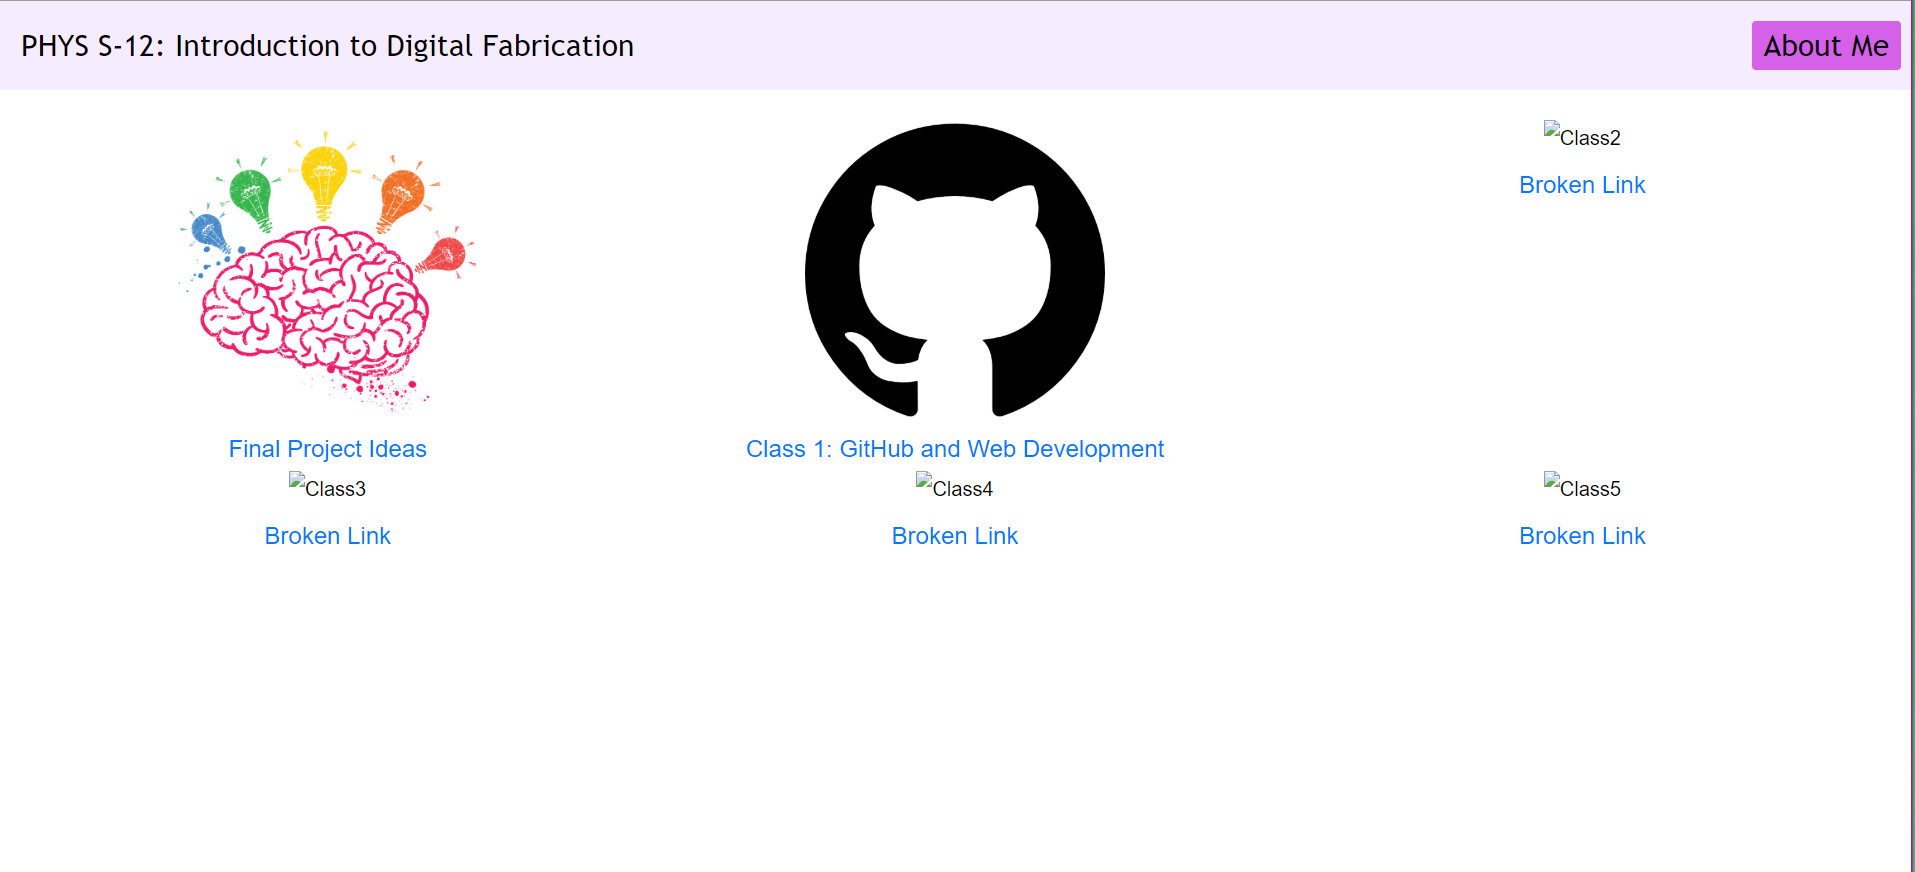
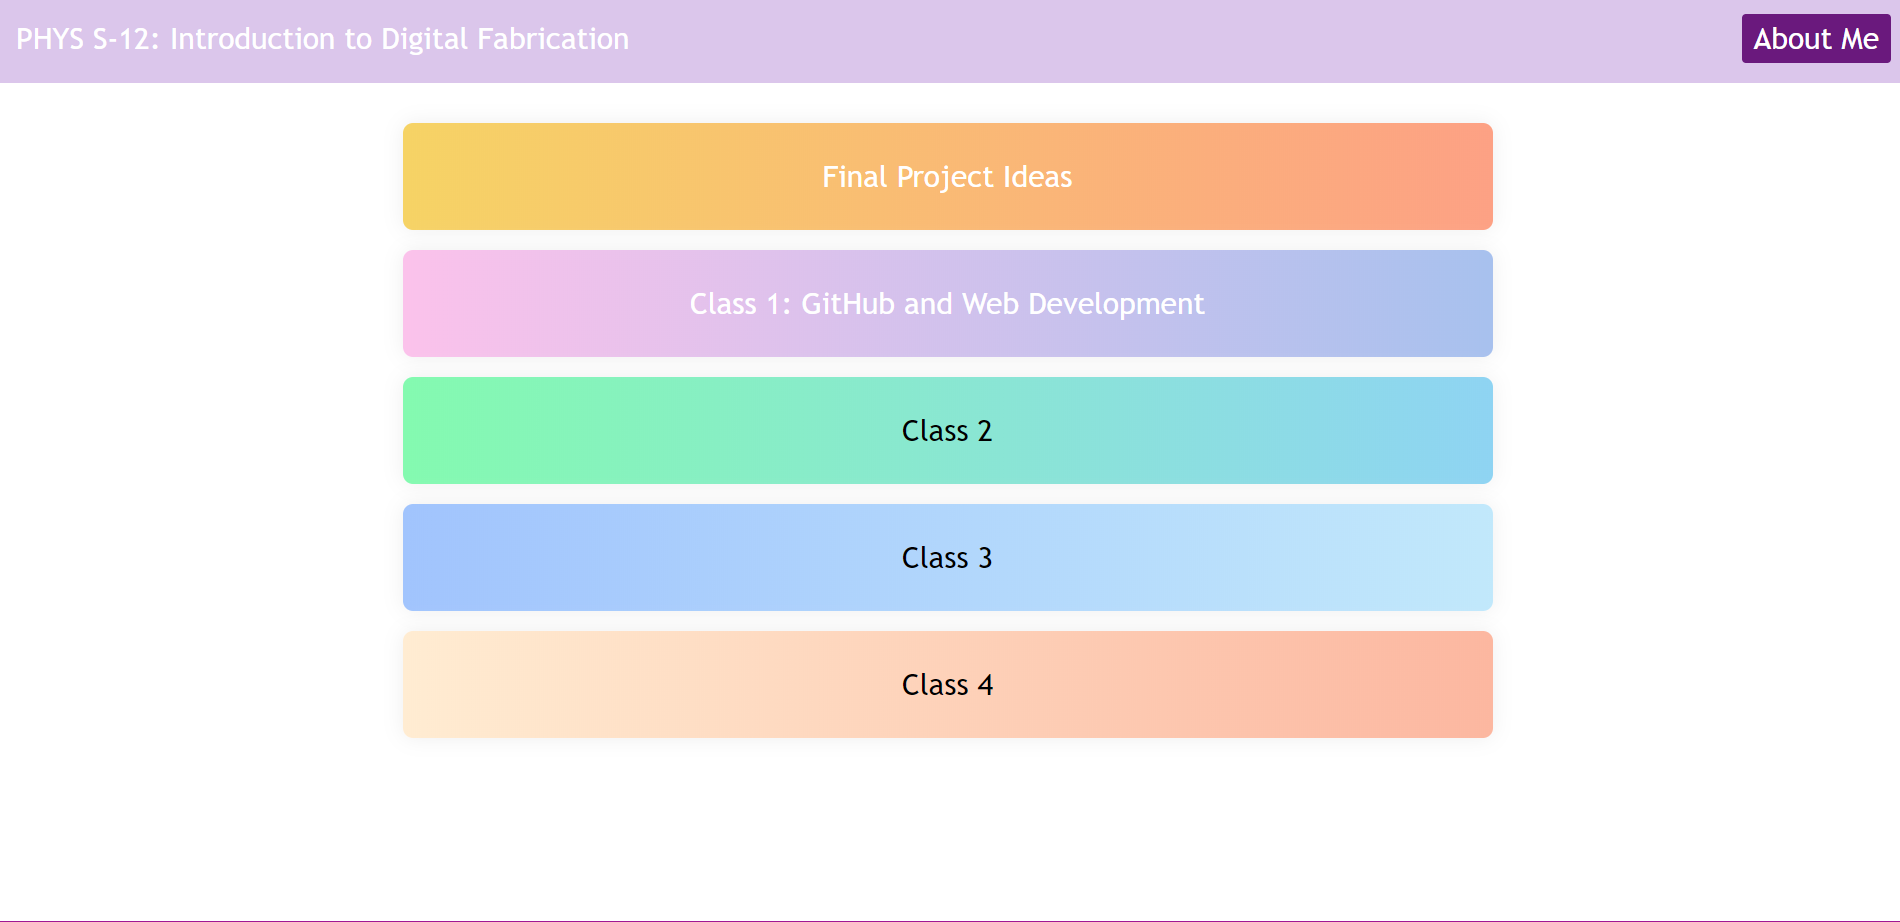
website v1

diff --git a/aboutme/about.html b/aboutme/about.html
@@ -15,55 +15,23 @@
     <a class="active" href="about.html">About Me</a>
   </div>
 </div>
-<body>
-	<br>
-	<h1>About Me!</h1>
-	<img src="me2.JPG" style="width:30%" alt="Picture of me in Washington DC!">
-	<br>
-	<h5> Hi! My name is Michelle, and I'm a rising senior from Las Vegas, NV. </h5>
-	<h5> In my free time, I like playing the piano, creative writing, and baking!</h5>
-	<h5> I'm thinking of pursuing engineering in college, which is why I'm so excited to be taking this digital fabrication class. I haven't had any experience whatsoever in the topics that we are going to cover, but I'm eager to learn!</h5>
-<hr>
-	<div class="container-fluid bg-3 text-center">
-  	<h2>Here are some of my favorite things! </h2> 
-  	<br>
- 	<div class="row">
-		<div class="col-sm-4">
-    		<h4> Favorite Color </h4>
-      		<img src="purple.png" class="img-responsive margin" style="width:200px;height:200px;" alt="Purple">
-    		</div>
-    	<div class="col-sm-4">
-    		<h4>Favorite Drink</h4>
-      		<img src="boba.jpg" class="img-responsive margin" style="width:200px;height:200px;" alt="Boba Tea">
-    	</div>
-    	<div class="col-sm-4">
-    		<h4>Favorite Dog Breed</h4>
-      		<img src="corgi.jpg" class="img-responsive margin" style="width:200px;height:200px;" alt="Corgi">
-    	</div>
-  	</div>
-  	<br>
-  	<br>
-  	<br>
-  	<div class="row">
-    	<div class="col-sm-4">
-    		<h4>Favorite Movie</h4>
-      		<img src="movie.png" class="img-responsive margin" style="width:200px;height:200px;" alt="Spirited Away">
-    	</div>
-    	<div class="col-sm-4">
-    		<h4>Favorite Fruit</h4>
-      		<img src="mango.jpg" class="img-responsive margin" style="width:200px;height:200px;" alt="Mango">
-    	</div>
-    	<div class="col-sm-4">
-    		<h4>Favorite TV Show</h4>
-      		<img src="good_place.jpg" class="img-responsive margin" style="width:200px;height:200px;" alt="The Good Place">
-    	</div>
-  	</div>
-	</div>
 
-  
-  
-  
-	</div>
+<body>
+	<div class="container-fluid">
+	<div class="row">
+    
+      <div class="col-md-6">
+        <img src="me2.JPG" style="width:85%" alt="Picture of me in Washington DC!">
+      </div >
+     
+      <div class="col-md-6">
+      	<h1 style="text-align:center"> About Me: </h1>
+      	<br>
+        <p class="about"> My name is Michelle, and I'm a rising senior from The Meadows School in Las Vegas, NV. In my free time, I like playing the piano, creative writing, and baking!</p>
+		<br>
+		<p class="about"> I'm thinking of pursuing engineering in college, which is why I'm so excited to be taking this digital fabrication class. I've only ever built things through Science Olympiad, such as a stringed instrument and compound machine. I haven't had any experience whatsoever in the topics that we are going to cover, but I'm eager to learn!</p>
+      </div>
+</div>
 
 </body>
 </html>

diff --git a/style.css b/style.css
@@ -1,7 +1,8 @@
 body {
-    font: 20px Montserrat, sans-serif;
+	font-family: Trebuchet MS,Lucida Grande,Lucida Sans Unicode,Lucida Sans,Tahoma,sans-serif; 
+    font-size: 20px;
     line-height: 1.8;
-    color: black;
+    color: black
   }
 
 p {font-size: 16px;}
@@ -13,42 +14,98 @@ p {font-size: 16px;}
 }
 .header {
   overflow: hidden;
-  background-color: #F6ECFF;
+  background-color:#dbc6eb;
   padding: 20px 10px;
 }
 
 /* Style the header links */
 .header a {
   float: left;
-  color: black;
+  color: white;
   text-align: center;
-  padding: 12px;
+  padding: 14px;
   text-decoration: none;
   font-size: 30px;
-  font-family: "Trebuchet MS", Helvetica, sans-serif;
+  font-family: Trebuchet MS,Lucida Grande,Lucida Sans Unicode,Lucida Sans,Tahoma,sans-serif; 
   line-height: 25px;
-  border-radius: 4px;
+  border-radius:4px;
+  margin-right:10px;
 }
 
 /* Style the logo link (notice that we set the same value of line-height and font-size to prevent the header to increase when the font gets bigger */
 .header a.logo {
   font-size: 25px;
+  font-family: Trebuchet MS,Lucida Grande,Lucida Sans Unicode,Lucida Sans,Tahoma,sans-serif; 
   font-weight: bold;
 }
 
 /* Change the background color on mouse-over */
 .header a:hover {
   background-color: #DCBDF7;
-  color: black;
+  color: white;
 }
 
 /* Style the active/current link*/
 .header a.active {
-  background-color: #D561E8;
-  color: black;
+  background-color:#6a197d;
+  color: white;
 }
 
 /* Float the link section to the right */
 .header-right {
   float: right;
+}
+.about {
+  text-align: center;
+	font-size: 25px;
+}
+.container {
+  display: flex;
+  justify-content: center;
+  align-items: center;
+  align-content: center;
+  flex-wrap: wrap;
+
+}
+.btn {
+  flex: 1 1 auto;
+  margin: 10px;
+  padding: 30px;
+  text-align: center;
+  transition: 0.5s;
+  background-size:200% auto;
+  color: white;
+ /* text-shadow: 0px 0px 10px rgba(0,0,0,0.2);*/
+  box-shadow: 0 0 20px #eee;
+  border-radius: 10px;
+  width: 100%;
+  font-size: 30px;
+ }
+
+/* Demo Stuff End -> */
+
+/* <- Magic Stuff Start */
+
+.btn:hover {
+  background-position: right center; /* change the direction of the change here */
+}
+
+.btn-1 {
+  background-image: linear-gradient(to right, #f6d365 0%, #fda085 51%, #f6d365 100%);
+}
+
+.btn-2 {
+  background-image: linear-gradient(to right, #fbc2eb 0%, #a6c1ee 51%, #fbc2eb 100%);
+}
+
+.btn-3 {
+  background-image: linear-gradient(to right, #84fab0 0%, #8fd3f4 51%, #84fab0 100%);
+}
+
+.btn-4 {
+  background-image: linear-gradient(to right, #a1c4fd 0%, #c2e9fb 51%, #a1c4fd 100%);
+}
+
+.btn-5 {
+  background-image: linear-gradient(to right, #ffecd2 0%, #fcb69f 51%, #ffecd2 100%);
 }

diff --git a/01_class/01_class.html b/01_class/01_class.html
@@ -16,11 +16,12 @@
   </div>
 </div>
 <body>
-  <br>
+<div class="container-fluid">
 	<h1> Class 1: GitHub and Website Development</h1>
-	<p> Since I've had a little bit of experience in HTML/CSS from Computers class in Middle School, the learning curve in creating my website wasn't so steep; however, I did have to reacquaint myself with the basics via W3 Schools. I copied some of the code from W3 Schools to create a navigation bar at the top of each page, although I changed some of the styling and colors in CSS. </p>
+	<p> Since I've had a little bit of experience in HTML/CSS from Computers class in Middle School, the learning curve in creating my website wasn't so steep; however, I did have to reacquaint myself with the basics via W3 Schools. I copied some of the code from W3 Schools to create a navigation bar at the top of each page, although I changed some of the styling and colors in CSS. I also found some code for gradient buttons on codepen.io, although I had to edit them to span the entire width of the page. By playing with the CSS code for both of these templates, I feel like I really learned a lot. </p>
   <p> My biggest struggle was figuring out how to specify file paths. Maybe I didn't have as many folders when I had previously done HTML, which is why file path notation seemed to be so new to me. Eventually, I figured out how to use relative file paths with / for files located at the root of the current web, ./ for files located in folders located in the current folder, and ../ for files located in folders one level above the current folder. I had to edit the navigation bar file paths depending on the page, but I'm glad to have finally figured this out!</p>
   <img src="homepage.PNG" style="width:60%" alt="Homepage">
   <p> This is how my website's homepage currently looks with some broken links for documentation of the next few classes, but I hope to improve the layout throughout the course as I get better at HTML/CSS.</p>
-  <p> This is also my first time using GitHub, so I was a bit confused at first about repositories and pushing, but through some trial and error, I've figured it out! 
+  <p> This is also my first time using GitHub, so I was a bit confused at first about repositories and pushing, but through some trial and error, I've figured it out! </p>
+</div>
 </body>

diff --git a/index.html b/index.html
@@ -18,35 +18,15 @@
 </div>
 <div class="container-fluid bg-3 text-center">
   <div class="row">
-    <div class="col-sm-4">
-      <img src="./project_ideas/final.jpg" class="img-responsive margin" style="height:300px" alt="Brainstorm">
-      <h4><a href='./project_ideas/project_ideas.html'>Final Project Ideas</a></h4>
-    </div>
-    <div class="col-sm-4">
-      <img src="./01_class/github.png" class="img-responsive margin" style="height:300px" alt="GitHub">
-      <h4><a href='./01_class/01_class.html'>Class 1: GitHub and Web Development</a></h4>
-    </div>
-    <div class="col-sm-4">
-      <img src="" class="img-responsive margin" style="width:100%" alt="Class2">
-      <h4><a href=''>Broken Link</a></h4>
-    </div>
-  </div>
-
-  <div class="row">
-    <div class="col-sm-4">
-      <img src="" class="img-responsive margin" style="width:100%" alt="Class3">
-      <h4><a href=''>Broken Link</a></h4>
-    </div>
-    <div class="col-sm-4">
-      <img src="" class="img-responsive margin" style="width:100%" alt="Class4">
-      <h4><a href=''>Broken Link</a></h4>
-    </div>
-    <div class="col-sm-4">
-      <img src="" class="img-responsive margin" style="width:100%" alt="Class5">
-      <h4><a href=''>Broken Link</a></h4>
-    </div>
-  </div>
+    <div class="container">
+  <a href="./project_ideas/project_ideas.html" class="btn btn-1">Final Project Ideas</a>
+  <a href="./01_class/01_class.html" class="btn btn-2">Class 1: GitHub and Web Development</a>
+  <a class="btn btn-3">Class 2</a> 
+  <a class="btn btn-4">Class 3</a> 
+  <a class="btn btn-5">Class 4</a>
 </div>
+  </div>
+  </div>
 
   
   

diff --git a/project_ideas/project_ideas.html b/project_ideas/project_ideas.html
@@ -16,12 +16,13 @@
   </div>
 </div>
 <body>
-	<br>
+<div class="container-fluid">
 	<h1> Final Project Ideas! </h1>
 	<br>
 		<h3> Idea 1: Simon Says Alarm Clock </h3>
 			<p> I have a bit of trouble waking up in the mornings (to the point where I usually have to set several alarms five minutes apart to even wake up). I was thinking of designing an alarm clock that would work like those old Hasbro Simon Says games, forcing me to use my memory to turn off the alarm sound. It could use 4 different color LED lights that could light up in a specific pattern with specific sounds, and I would have to repeat the pattern to turn off the alarm. 
 		<h3> Idea 2: Music Glove </h3>
 			<p> A while ago, I remember looking up piano-themed accessories on Amazon since I was a piano enthusiast. I remember coming up with scarfs, t-shirts, and ties, but there was one tie which looked like a piano and could play specific notes if you pressed the right keys. There are 12 different notes in an octave, so I wonder if I could create a glove which would play a different pitch when each finger is pressed, and two additional notes could be played by tapping one's palm against the table. </p> 
-			<a href="https://learn.adafruit.com/midi-drum-glove">I found this cool drum glove which looks like it would be made very similarly.</a>
+			<p><a href="https://learn.adafruit.com/midi-drum-glove">I found this cool drum glove which looks like it would be made very similarly.</a></p>
+</div>
 </body>
